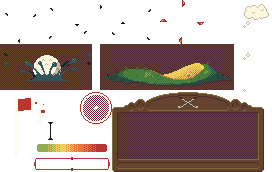
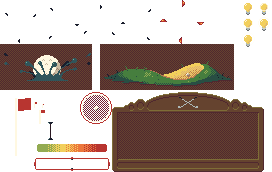
add beacon to flag which fades with distance update thinking sprite for CPU player

Changed region(s): [[0.8824, 0.0, 1.0, 0.1744], [0.8824, 0.2035, 0.9412, 0.2616], [0.8824, 0.3198, 0.9118, 0.3488]]

diff --git a/samples/golf/src/golf/BeaconCallback.hpp b/samples/golf/src/golf/BeaconCallback.hpp
@@ -1,0 +1,77 @@
+/*-----------------------------------------------------------------------
+
+Matt Marchant 2022
+http://trederia.blogspot.com
+
+crogine application - Zlib license.
+
+This software is provided 'as-is', without any express or
+implied warranty.In no event will the authors be held
+liable for any damages arising from the use of this software.
+
+Permission is granted to anyone to use this software for any purpose,
+including commercial applications, and to alter it and redistribute
+it freely, subject to the following restrictions :
+
+1. The origin of this software must not be misrepresented;
+you must not claim that you wrote the original software.
+If you use this software in a product, an acknowledgment
+in the product documentation would be appreciated but
+is not required.
+
+2. Altered source versions must be plainly marked as such,
+and must not be misrepresented as being the original software.
+
+3. This notice may not be removed or altered from any
+source distribution.
+
+-----------------------------------------------------------------------*/
+
+#pragma once
+
+#include "GameConsts.hpp"
+
+#include <crogine/ecs/Scene.hpp>
+
+class BeaconCallback final
+{
+public:
+    explicit BeaconCallback(const cro::Scene& scene)
+        : m_scene(scene) {}
+
+    void operator() (cro::Entity e, float)
+    {
+        auto pos = e.getComponent<cro::Transform>().getWorldPosition();
+        glm::vec2 beaconPos(pos.x, -pos.z);
+
+        pos = m_scene.getActiveCamera().getComponent<cro::Transform>().getWorldPosition();
+        glm::vec2 camPos(pos.x, -pos.z);
+
+        float amount = smoothstep(MinDist / MaxDist, MaxDist / MaxDist, std::min(1.f, glm::length(beaconPos - camPos) / MaxDist));
+
+        if (amount == 0)
+        {
+            e.getComponent<cro::Model>().setHidden(true);
+        }
+        else
+        {
+            e.getComponent<cro::Model>().setHidden(false);
+            if (amount != 1)
+            {
+                //model is blended additively so black == transparent
+                cro::Colour c(amount, amount, amount);
+                e.getComponent<cro::Model>().setMaterialProperty(0, "u_colour", c);
+
+                float scale = 0.4f + (0.6f * amount);
+                e.getComponent<cro::Transform>().setScale({ scale, 1.f, scale });
+            }
+        }
+    }
+
+private:
+
+    const cro::Scene& m_scene;
+
+    static constexpr float MaxDist = 120.f;
+    static constexpr float MinDist = 40.f;
+};

diff --git a/samples/golf/src/golf/GolfState.cpp b/samples/golf/src/golf/GolfState.cpp
@@ -49,6 +49,7 @@ source distribution.
 #include "TrophyDisplaySystem.hpp"
 #include "CloudSystem.hpp"
 #include "VatAnimationSystem.hpp"
+#include "BeaconCallback.hpp"
 #include "../Achievements.hpp"
 #include "../AchievementStrings.hpp"
 
@@ -2036,8 +2037,16 @@ void GolfState::buildScene()
         }
     };
 
-
     auto flagEntity = entity;
+
+    md.loadFromFile("assets/golf/models/beacon.cmt");
+    entity = m_gameScene.createEntity();
+    entity.addComponent<cro::Transform>();
+    entity.addComponent<cro::CommandTarget>().ID = CommandID::Beacon;
+    entity.addComponent<cro::Callback>().active = true;
+    entity.getComponent<cro::Callback>().function = BeaconCallback(m_gameScene);
+    md.createModel(entity);
+    auto beaconEntity = entity;
 
     //displays the stroke direction
     auto pos = m_holeData[0].tee;
@@ -2095,6 +2104,7 @@ void GolfState::buildScene()
     entity.addComponent<cro::Transform>().setPosition(m_holeData[0].pin);
     entity.getComponent<cro::Transform>().addChild(holeEntity.getComponent<cro::Transform>());
     entity.getComponent<cro::Transform>().addChild(flagEntity.getComponent<cro::Transform>());
+    entity.getComponent<cro::Transform>().addChild(beaconEntity.getComponent<cro::Transform>());
 
     meshData = &entity.getComponent<cro::Model>().getMeshData();
     verts =

diff --git a/samples/golf/src/golf/GolfStateUI.cpp b/samples/golf/src/golf/GolfStateUI.cpp
@@ -153,6 +153,8 @@ void GolfState::buildUI()
     entity.addComponent<cro::Transform>().setScale({ 0.f, 0.f });
     entity.addComponent<cro::Drawable2D>();
     entity.addComponent<cro::Sprite>() = m_sprites[SpriteID::Thinking];
+    bounds = m_sprites[SpriteID::Thinking].getTextureBounds();
+    entity.getComponent<cro::Transform>().setOrigin({ bounds.width / 2.f, bounds.height / 2.f });
     entity.addComponent<cro::SpriteAnimation>().play(0);
     entity.addComponent<cro::CommandTarget>().ID = CommandID::UI::ThinkBubble;
     entity.addComponent<cro::Callback>().setUserData<std::pair<std::int32_t, float>>(1, 0.f);
@@ -160,7 +162,7 @@ void GolfState::buildUI()
         [nameEnt](cro::Entity e, float dt)
         {
             auto end = nameEnt.getComponent<cro::Drawable2D>().getLocalBounds().width;
-            e.getComponent<cro::Transform>().setPosition({ end, 2.f });
+            e.getComponent<cro::Transform>().setPosition({ end + 6.f, 4.f });
 
             float scale = 0.f;
             auto& [direction, currTime] = e.getComponent<cro::Callback>().getUserData<std::pair<std::int32_t, float>>();

diff --git a/samples/golf/src/golf/CommandIDs.hpp b/samples/golf/src/golf/CommandIDs.hpp
@@ -43,7 +43,8 @@ struct CommandID final
         Crowd           = 0x80,
         SpectatorCam    = 0x100,
         PlayerAvatar    = 0x200,
-        ParticleEmitter = 0x400
+        ParticleEmitter = 0x400,
+        Beacon          = 0x800
     };
 
     struct UI final
